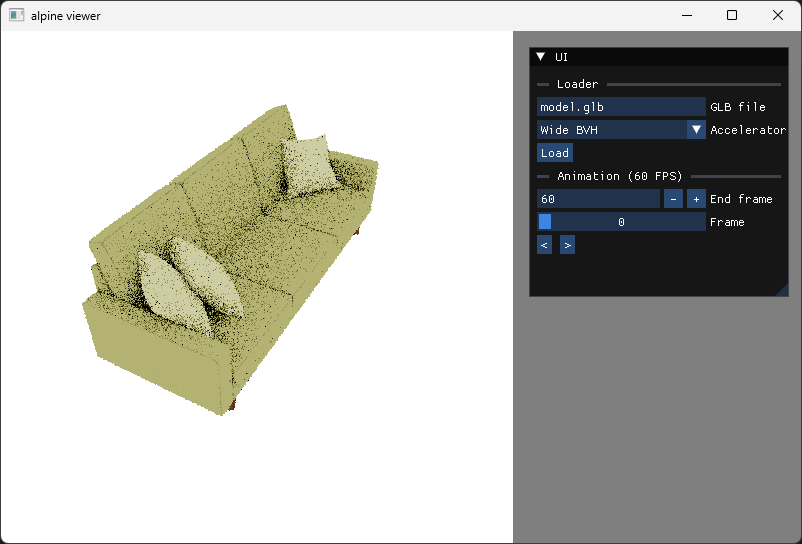
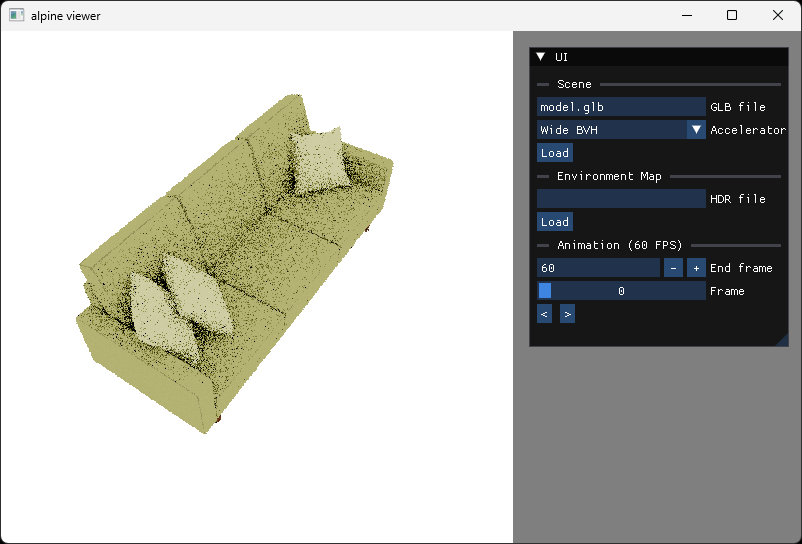
support environment map

diff --git a/src/environment_map.cpp b/src/environment_map.cpp
@@ -1,0 +1,38 @@
+#include "environment_map.h"
+
+#include <numbers>
+
+namespace alpine {
+EnvironmentMap::EnvironmentMap(std::vector<float3>&& data, uint32_t width, uint32_t height)
+    : mData(std::move(data))
+    , mWidth(width)
+    , mHeight(height)
+{
+}
+
+namespace {
+float2
+toUv(const float3& dir)
+{
+    float u = std::atan2(dir.z, dir.x) / (2.0f * std::numbers::pi_v<float>) + 0.5f;
+    float v = std::acos(std::clamp(dir.y, -1.0f, 1.0f)) / std::numbers::pi_v<float>;
+
+    return { u, v };
+}
+}
+
+float3
+EnvironmentMap::sample(const float3& dir) const
+{
+    float2 uv = toUv(dir);
+
+    uv.x = uv.x - std::floor(uv.x);
+    uv.y = std::clamp(uv.y, 0.0f, 1.0f);
+
+    uint32_t x = std::min(static_cast<uint32_t>(uv.x * mWidth), mWidth - 1);
+    uint32_t y = std::min(static_cast<uint32_t>(uv.y * mHeight), mHeight - 1);
+
+    uint32_t index = y * mWidth + x;
+    return mData[index];
+}
+}

diff --git a/applications/viewer/main.cpp b/applications/viewer/main.cpp
@@ -150,12 +150,12 @@ void showRenderTexturePanel(GLuint rt)
     ImGui::PopStyleVar(2);
 }
 
-void showLoader()
+void showSceneLoader()
 {
-    ImGui::SeparatorText("Loader");
+    ImGui::SeparatorText("Scene");
 
-    static char sFile[512] = "";
-    ImGui::InputText("GLB file", sFile, sizeof(sFile));
+    static char sFilename[512] = "";
+    ImGui::InputText("GLB file", sFilename, sizeof(sFilename));
 
     static const char* kAcceleratorLabels[] = {
         "BVH",
@@ -169,16 +169,33 @@ void showLoader()
         gAcceleratorType = static_cast<alpine::AcceleratorType>(acceleratorType);
     }
 
-    if (ImGui::Button("Load"))
+    if (ImGui::Button("Load##Glb"))
     {
         alpine::resetScene(gAcceleratorType);
 
-        bool loaded = alpine::load(sFile, alpine::FileType::Gltf);
+        bool loaded = alpine::loadScene(sFilename, alpine::FileType::Gltf);
         if (loaded)
         {
             gFrame = 0;
             alpine::buildLightSampler(alpine::LightSamplerType::Bvh);
             updateScene();
+        }
+    }
+}
+
+void showEnvironmentMapLoader()
+{
+    ImGui::SeparatorText("Environment Map");
+
+    static char sFilename[512] = "";
+    ImGui::InputText("HDR file", sFilename, sizeof(sFilename));
+
+    if (ImGui::Button("Load##Hdr"))
+    {
+        bool loaded = alpine::loadEnvironmentMap(sFilename);
+        if (loaded)
+        {
+            alpine::resetAccumulation();
         }
     }
 }
@@ -222,11 +239,12 @@ void showAnimationController()
 void showUi()
 {
     ImGui::SetNextWindowPos(ImVec2(IMAGE_WIDTH + 16, 16), ImGuiCond_Once);
-    ImGui::SetNextWindowSize(ImVec2(260, 250), ImGuiCond_Once);
+    ImGui::SetNextWindowSize(ImVec2(260, 300), ImGuiCond_Once);
 
     ImGui::Begin("UI");
 
-    showLoader();
+    showSceneLoader();
+    showEnvironmentMapLoader();
     showAnimationController();
 
     ImGui::End();

diff --git a/src/loaders/hdr_loader.cpp b/src/loaders/hdr_loader.cpp
@@ -1,0 +1,28 @@
+#include "file_loader.h"
+
+#include <math/vector.h>
+#include <scenes/scene.h>
+#include <environment_map.h>
+
+#include <stb/stb_image.h>
+
+namespace alpine {
+bool
+loadHdr(Scene* scene, std::string_view filename)
+{
+    int w, h, ch;
+    float* src = stbi_loadf(filename.data(), &w, &h, &ch, 3);
+    if (!src)
+    {
+        return false;
+    }
+
+    int pixelCount = w * h;
+    std::vector<float3> hdrData(pixelCount);
+    memcpy(hdrData.data(), src, pixelCount * sizeof(float3));
+
+    scene->environmentMap = std::make_shared<EnvironmentMap>(std::move(hdrData), w, h);
+
+    return true;
+}
+}

diff --git a/src/alpine.cpp b/src/alpine.cpp
@@ -22,6 +22,7 @@
 #include <alpine_config.h>
 #include <animation.h>
 #include <camera.h>
+#include <environment_map.h>
 #include <image.h>
 #include <intersection.h>
 #include <ray.h>
@@ -61,7 +62,7 @@ public:
 
     void resetScene(AcceleratorType acceleratorType);
 
-    bool load(std::string_view filename, FileType fileType);
+    bool loadScene(std::string_view filename, FileType fileType);
 
     void updateScene(float time);
 
@@ -76,6 +77,8 @@ public:
         float radius);
 
     void buildLightSampler(LightSamplerType lightSamplerType);
+
+    bool loadEnvironmentMap(std::string_view filename);
 
     void resetAccumulation();
 
@@ -171,7 +174,7 @@ Alpine::resetScene(AcceleratorType acceleratorType)
 }
 
 bool
-Alpine::load(std::string_view filename, FileType fileType)
+Alpine::loadScene(std::string_view filename, FileType fileType)
 {
     const auto load = [&]() {
         switch (fileType)
@@ -245,6 +248,12 @@ Alpine::buildLightSampler(LightSamplerType lightSamplerType)
     }
 }
 
+bool
+Alpine::loadEnvironmentMap(std::string_view filename)
+{
+    return loadHdr(&mScene, filename);
+}
+
 void
 Alpine::resetAccumulation()
 {
@@ -306,7 +315,8 @@ Alpine::traceRayBatch(uint32_t batchId, uint32_t spp)
 
                     if (!oi.has_value())
                     {
-                        radiance += throughput * mBackgroundColor;
+                        const auto& env = mScene.environmentMap;
+                        radiance += throughput * (env ? env->sample(ray.dir) : mBackgroundColor);
                         break;
                     }
 
@@ -496,10 +506,10 @@ resetScene(AcceleratorType acceleratorType)
 }
 
 bool
-load(std::string_view filename, FileType fileType)
+loadScene(std::string_view filename, FileType fileType)
 {
     assert(sAlpine);
-    return sAlpine->load(filename, fileType);
+    return sAlpine->loadScene(filename, fileType);
 }
 
 void
@@ -547,6 +557,13 @@ setBackgroundColor(float r, float g, float b)
 {
     assert(sAlpine);
     sAlpine->setBackgroundColor(r, g, b);
+}
+
+bool
+loadEnvironmentMap(std::string_view filename)
+{
+    assert(sAlpine);
+    return sAlpine->loadEnvironmentMap(filename);
 }
 
 api::Camera*

diff --git a/src/environment_map.h b/src/environment_map.h
@@ -1,0 +1,20 @@
+#pragma once
+
+#include <math/vector.h>
+
+#include <vector>
+
+namespace alpine {
+class EnvironmentMap
+{
+public:
+    EnvironmentMap(std::vector<float3>&& data, uint32_t width, uint32_t height);
+
+    float3 sample(const float3& dir) const;
+
+private:
+    std::vector<float3> mData;
+    uint32_t mWidth;
+    uint32_t mHeight;
+};
+}

diff --git a/include/alpine/alpine.h b/include/alpine/alpine.h
@@ -24,7 +24,7 @@ enum class FileType {
     Gltf,
     Obj,
 };
-bool load(std::string_view filename, FileType fileType);
+bool loadScene(std::string_view filename, FileType fileType);
 
 void updateScene(float time);
 
@@ -49,6 +49,8 @@ enum class LightSamplerType {
 void buildLightSampler(LightSamplerType lightSamplerType);
 
 void setBackgroundColor(float r, float g, float b);
+
+bool loadEnvironmentMap(std::string_view filename);
 
 api::Camera* getCamera();
 

diff --git a/src/scenes/scene.h b/src/scenes/scene.h
@@ -7,6 +7,7 @@
 
 namespace alpine {
 class Animation;
+class EnvironmentMap;
 class Light;
 class Shape;
 
@@ -15,6 +16,7 @@ struct Scene
     std::vector<std::shared_ptr<Shape>> shapes;
     std::vector<std::shared_ptr<Light>> lights;
     std::vector<std::shared_ptr<Animation>> animations;
+    std::shared_ptr<EnvironmentMap> environmentMap;
 
     Scene()
     {

diff --git a/src/loaders/file_loader.h b/src/loaders/file_loader.h
@@ -6,4 +6,5 @@ namespace alpine {
 struct Scene;
 bool loadGltf(Scene* scene, std::string_view filename);
 bool loadObj(Scene* scene, std::string_view filename);
+bool loadHdr(Scene* scene, std::string_view filename);
 }